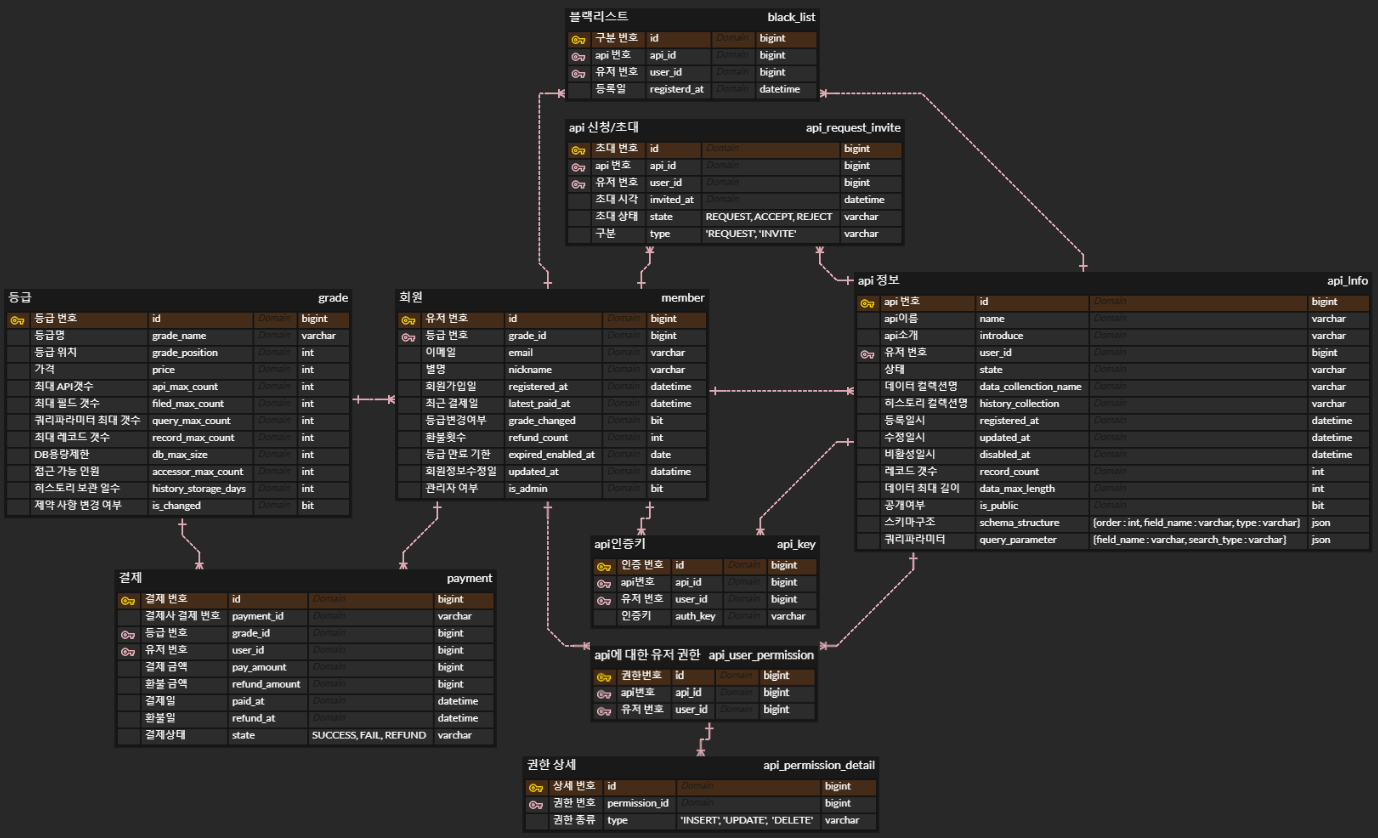
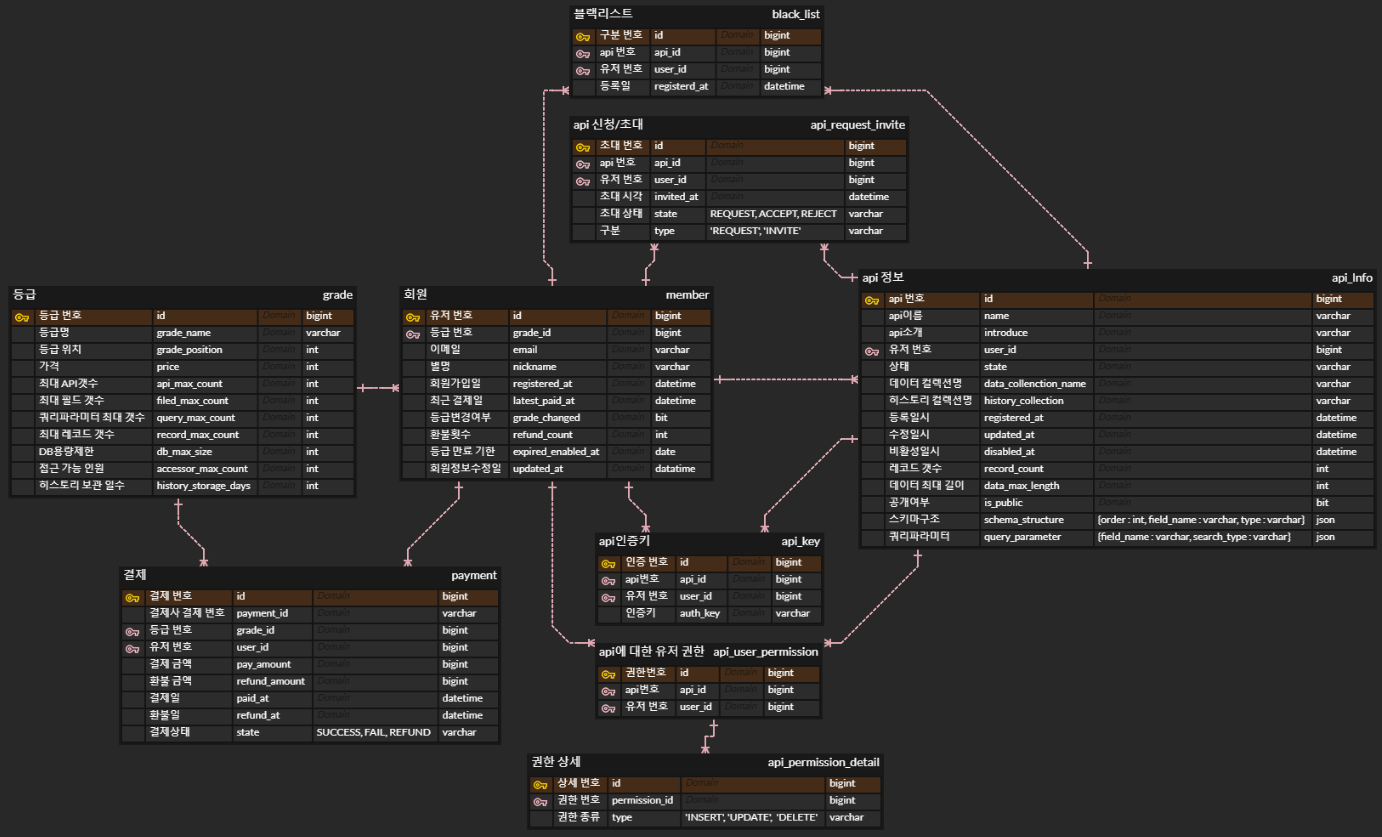
Docs: Updated README.md
- ERD 사진 변경
- 시연 캡쳐 화면 추가

diff --git a/README.md b/README.md
@@ -202,6 +202,21 @@ MongoDB에 컬렉션과, 인덱스를 생성하고, 데이터를 삽입해줍니
 
 ---
 
+### 시연 화면 (with Postman)
+
+#### 엑셀 파일 정의
+![excelimage](doc/demonstration/exceldata.png)
+
+#### OpenAPI 생성하기 
+
+![apicreate1](doc/demonstration/api-create-1.png)
+![apicreate2](doc/demonstration/api-create-2.png)
+
+#### 쿼리 조회하기
+
+![query-ex-1](doc/demonstration/query-ex1.png)
+![query-ex-2](doc/demonstration/query-ex2.png)
+
 ### 기술 스택
 
 <div align=center> 
